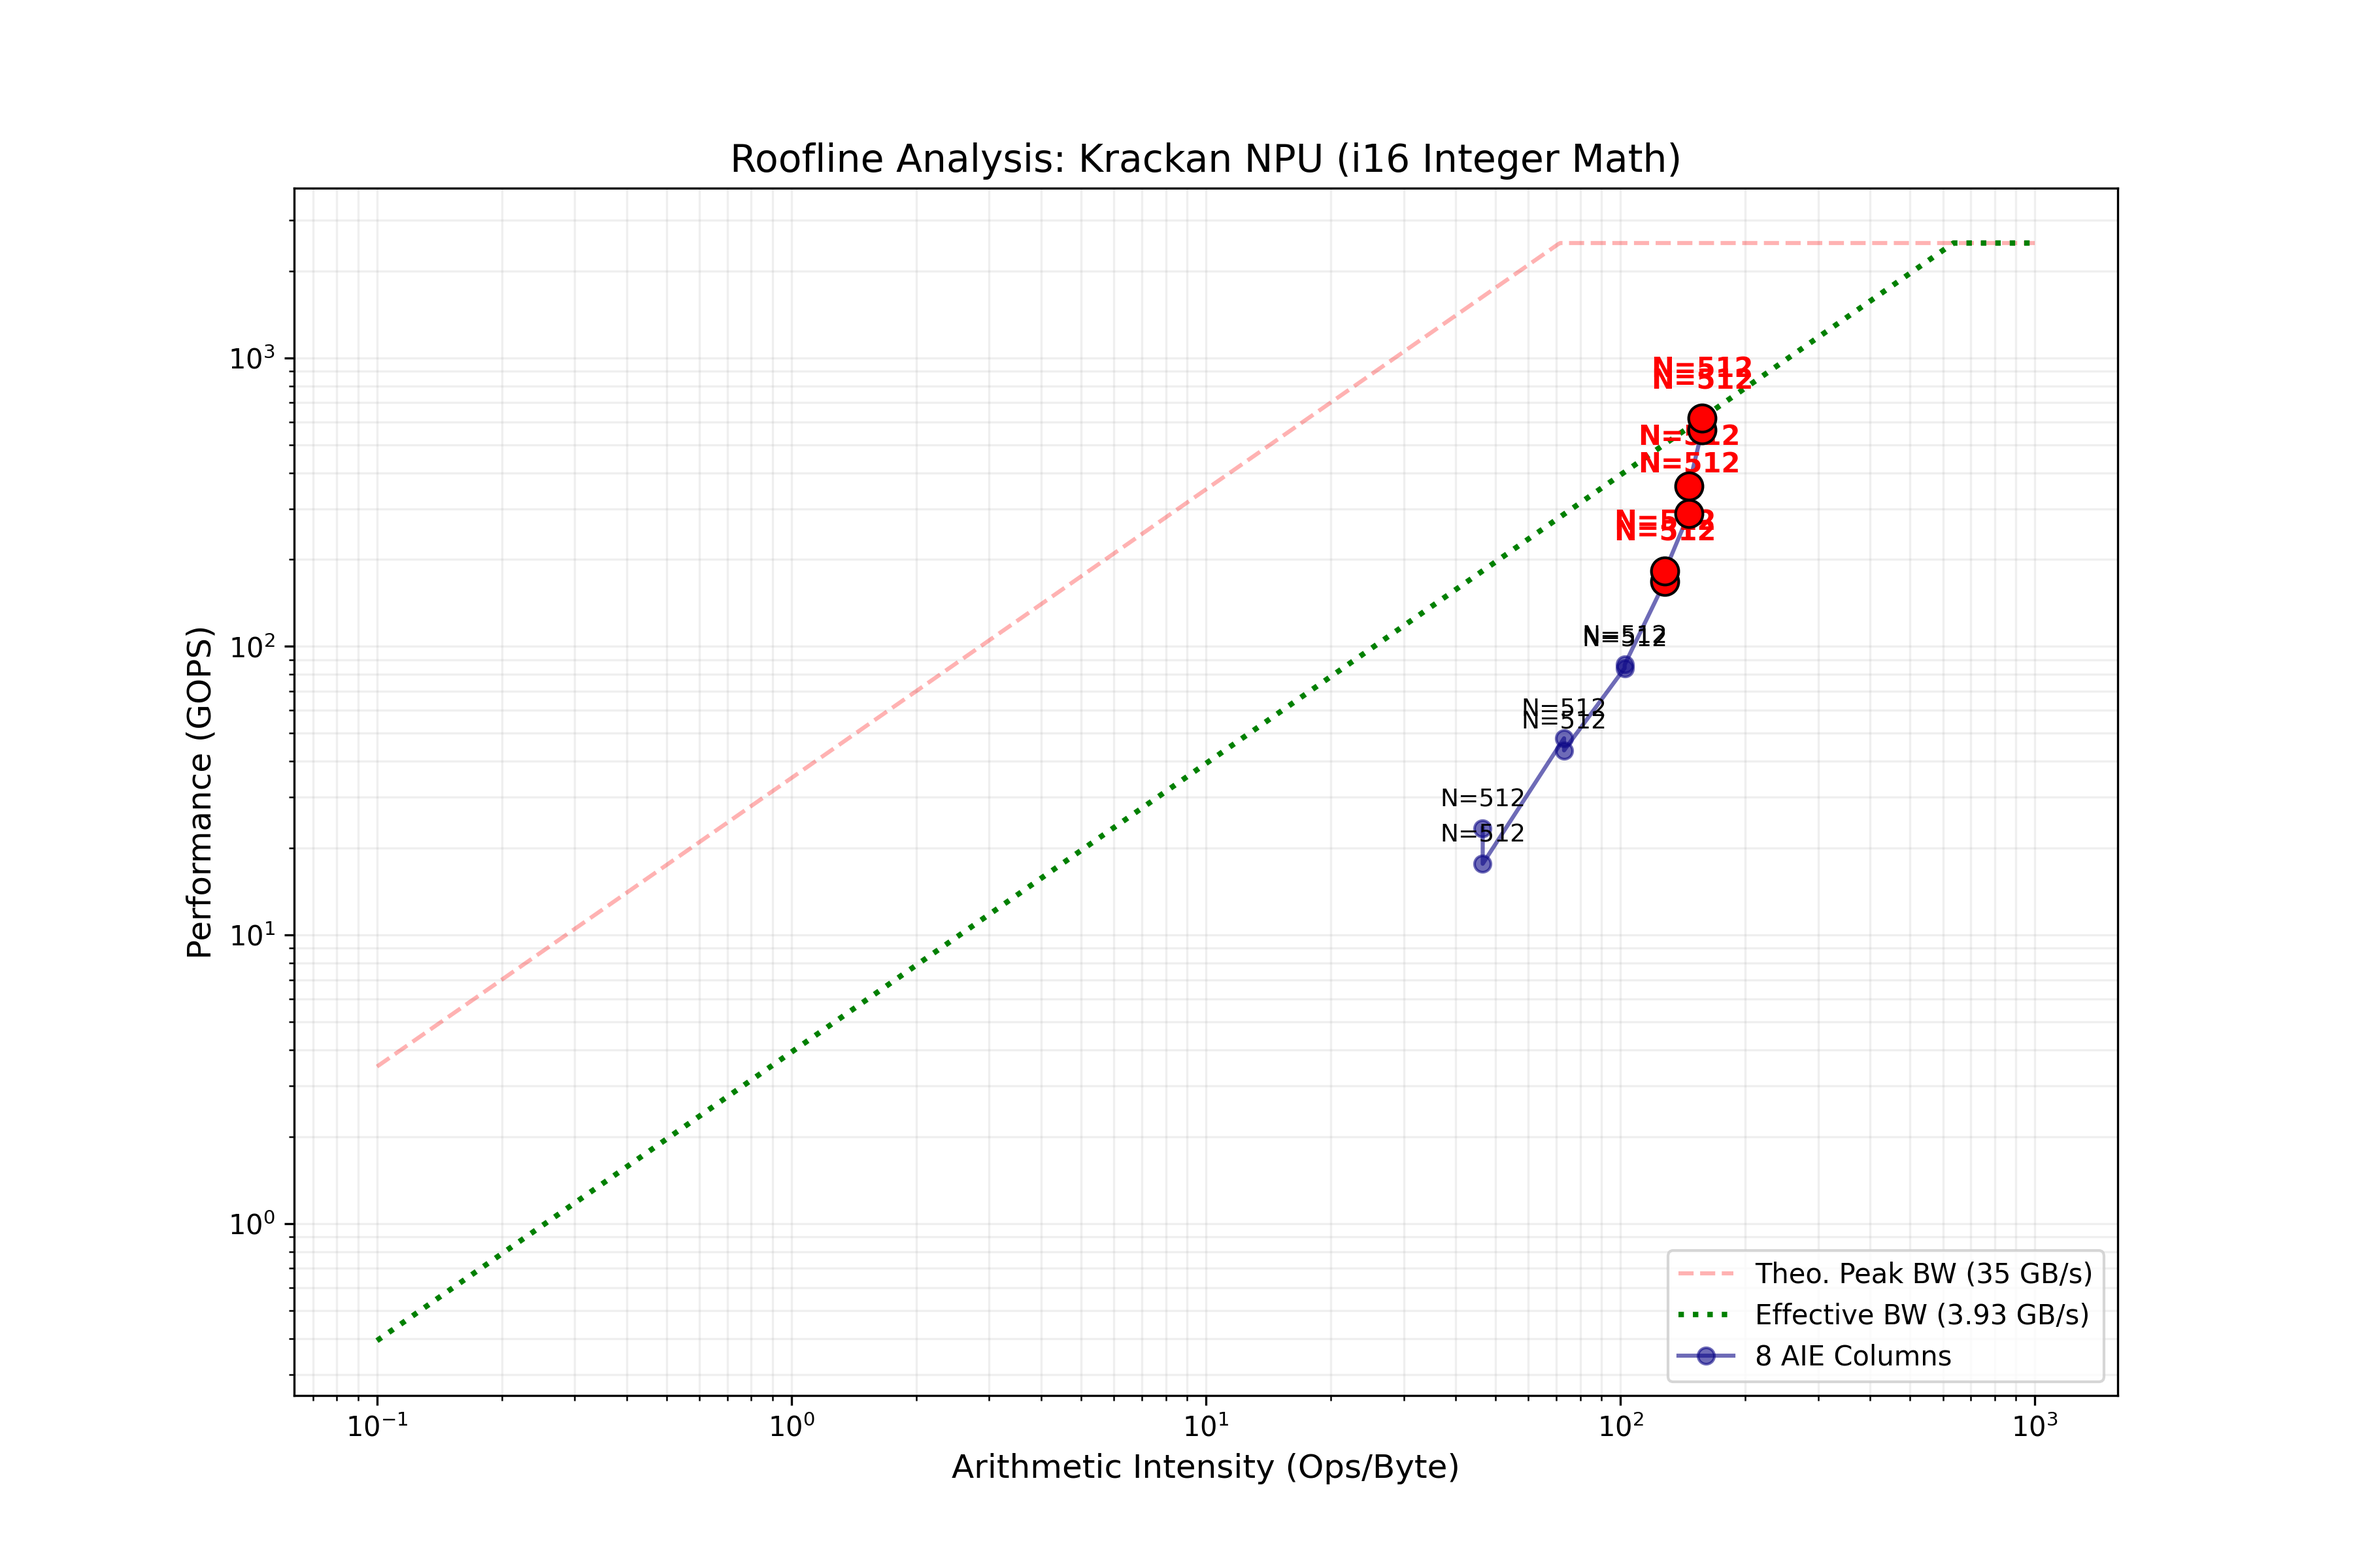
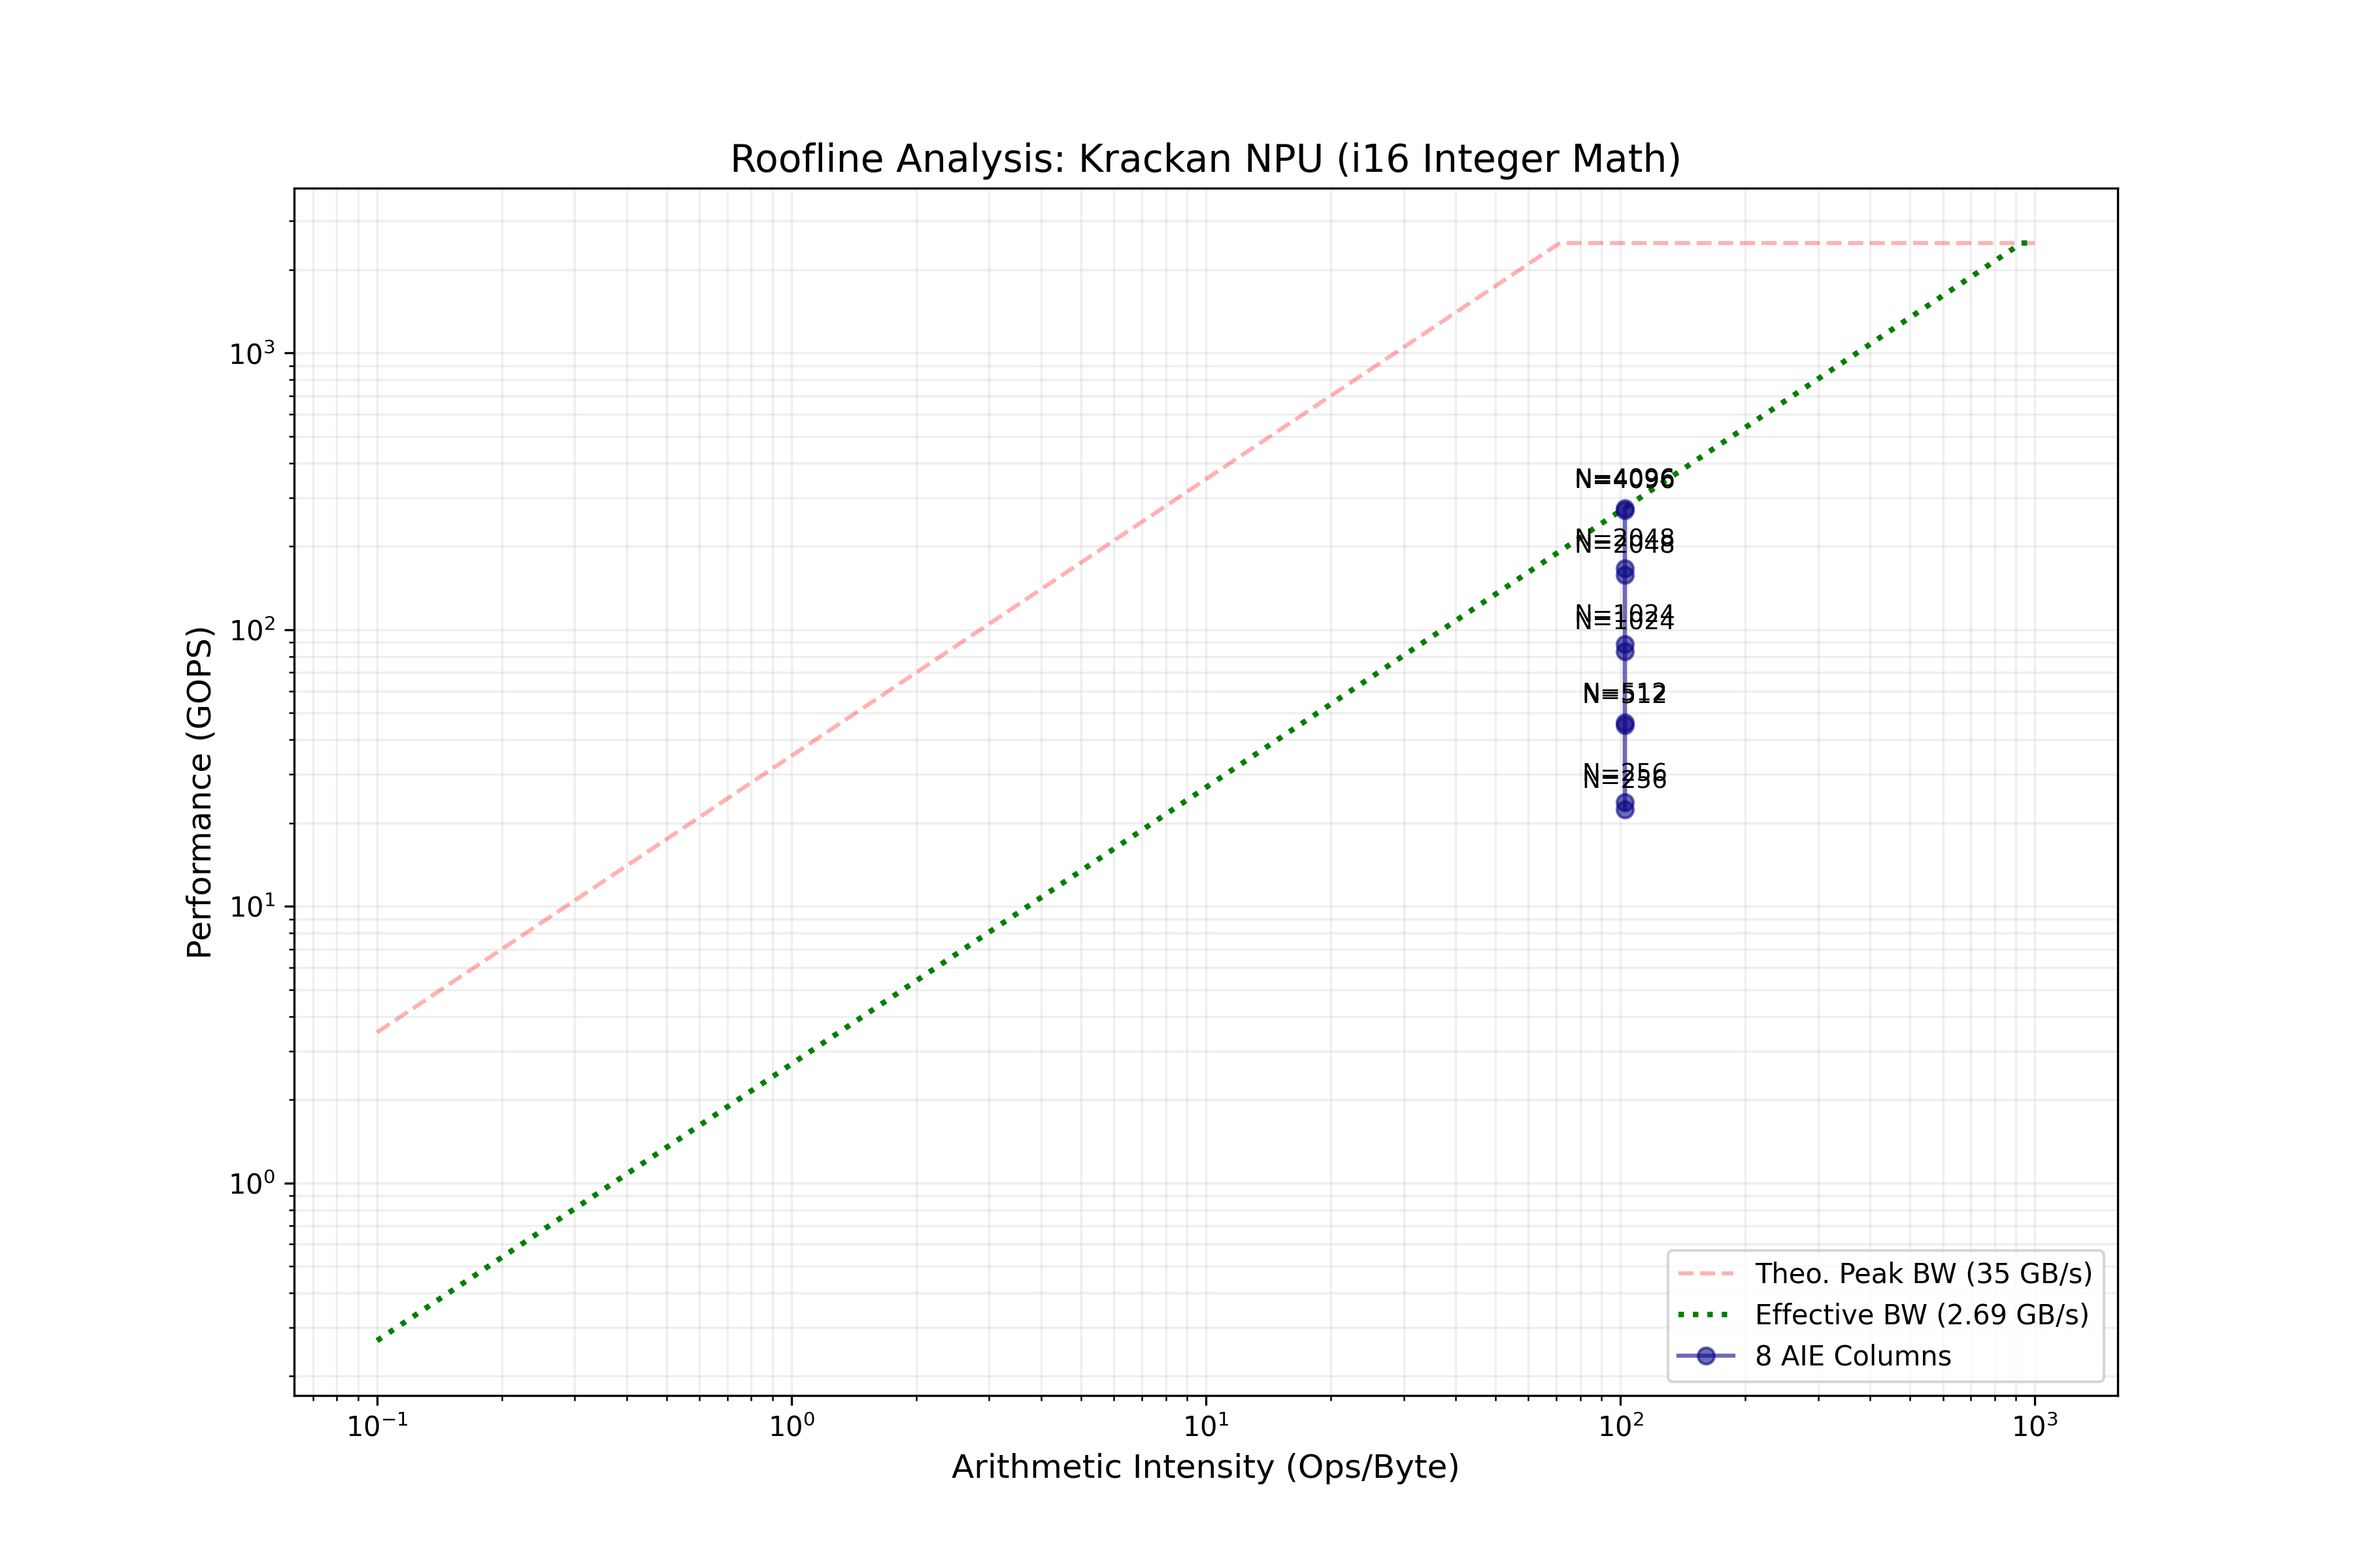
sensitivity with n calculated 10 times

diff --git a/programming_examples/basic/matrix_multiplication/whole_array/plot_n_sensitivity.py b/programming_examples/basic/matrix_multiplication/whole_array/plot_n_sensitivity.py
@@ -1,0 +1,83 @@
+import pandas as pd
+import matplotlib.pyplot as plt
+import os
+
+def load_data(filename, label_to_find):
+    if not os.path.exists(filename): 
+        print(f"File {filename} non trovato.")
+        return [], []
+    df = pd.read_csv(filename, names=['M', 'K', 'N', 'AI', 'GOPS', 'cols', 'Label'])
+    # Filtriamo per M=512, K=512, 8 colonne e la Label specifica
+    mask = (df['Label'] == label_to_find) & (df['cols'] == 8) & (df['M'] == 512) & (df['K'] == 512)
+    filtered = df[mask].sort_values(by='N')
+    if filtered.empty: return [], []
+    final = filtered.groupby('N')['GOPS'].mean().sort_index()
+    return final.index.tolist(), final.values.tolist()
+
+def calc_traffic(M, K, N, cols, n_tile, label):
+    dsize = 2 # int16 -> 2 bytes
+    if label == "Baseline":
+        # Matrix A is re-fetched N / (n_tile * cols) times
+        redundancy = max(1, N / (n_tile * cols))
+        return ((M * K * redundancy) + (K * N) + (M * N)) * dsize / (1024**2)
+    else: # PoC (Stationary A)
+        # Matrix A is fetched only once
+        return ((M * K) + (K * N) + (M * N)) * dsize / (1024**2)
+
+# Caricamento dati
+N_vals, baseline_gops = load_data('performance_log.csv', 'Baseline')
+N_poc, poc_gops = load_data('performance_log.csv', 'PoC')
+
+if not N_vals and not N_poc:
+    print("Nessun dato trovato nel log. Verifica di aver eseguito i test.")
+    exit()
+
+fig, ax1 = plt.subplots(figsize=(12, 7))
+
+# Configurazione Asse X (N)
+ax1.set_xlabel('N Dimension (Matrix B columns)', fontsize=12, fontweight='bold')
+ax1.set_ylabel('Throughput (GOPS)', color='blue', fontsize=12, fontweight='bold')
+
+# Plot dei GOPS
+lns1 = []
+if N_vals:
+    l1 = ax1.plot(N_vals, baseline_gops, 'o-', color='cornflowerblue', label='Baseline GOPS', linewidth=2, markersize=8)
+    lns1 += l1
+if N_poc:
+    l2 = ax1.plot(N_poc, poc_gops, 's-', color='blue', label='PoC GOPS', linewidth=3, markersize=10)
+    lns1 += l2
+
+ax1.set_xscale('log', base=2)
+all_n = sorted(list(set(N_vals + N_poc)))
+ax1.set_xticks(all_n)
+ax1.get_xaxis().set_major_formatter(plt.ScalarFormatter())
+ax1.grid(True, which="both", ls="-", alpha=0.2)
+ax1.tick_params(axis='y', labelcolor='blue')
+
+# Configurazione Asse Y2 (Traffico DDR)
+ax2 = ax1.twinx()
+ax2.set_ylabel('DDR Traffic (MB)', color='red', fontsize=12, fontweight='bold')
+
+lns2 = []
+if N_vals:
+    bt = [calc_traffic(512, 512, n, 8, 32, "Baseline") for n in N_vals]
+    l3 = ax2.plot(N_vals, bt, 'o--', color='lightcoral', label='Baseline Traffic (MB)', alpha=0.8)
+    lns2 += l3
+if N_poc:
+    pt = [calc_traffic(512, 512, n, 8, 32, "PoC") for n in N_poc]
+    l4 = ax2.plot(N_poc, pt, 'v--', color='red', label='PoC Traffic (MB)', linewidth=2)
+    lns2 += l4
+
+ax2.tick_params(axis='y', labelcolor='red')
+
+# --- UNIONE DELLE LEGENDE ---
+lns = lns1 + lns2
+labs = [l.get_label() for l in lns]
+ax1.legend(lns, labs, loc='upper left', frameon=True, shadow=True, fontsize=10)
+
+plt.title('N-Sensitivity Analysis: Throughput vs. DDR Traffic\n(Fixed M=512, K=512, 8 columns)', fontsize=14, fontweight='bold')
+
+# Salvataggio con margini ottimizzati
+plt.tight_layout()
+plt.savefig('n_sensitivity_analysis.png', bbox_inches='tight', dpi=300)
+print("Grafico generato con successo: n_sensitivity_analysis.png")
